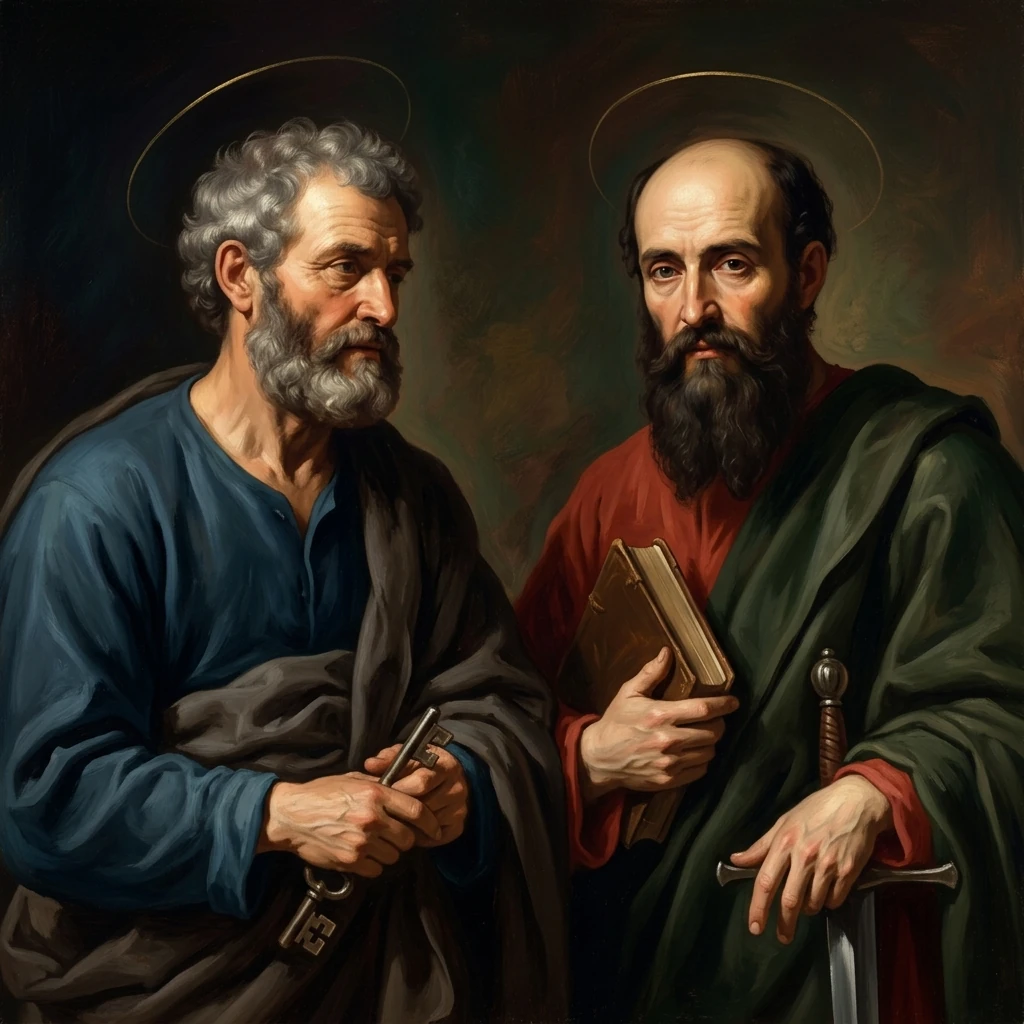
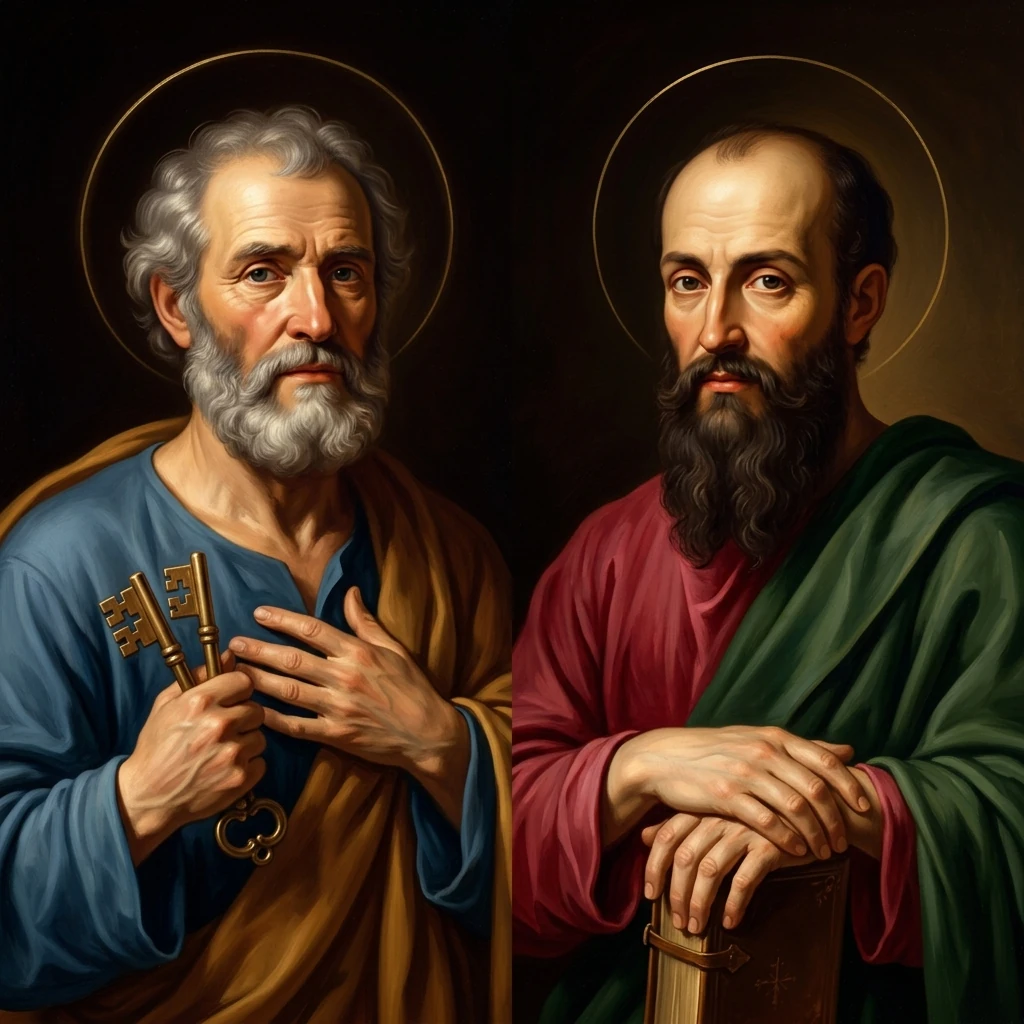
fix(santo-do-dia): aperfeicoa imagens de 09/11, 29/06 e 08/09 com nova composicao (v1.0.5+37)

diff --git a/tools/fix_three_saints.py b/tools/fix_three_saints.py
@@ -1,0 +1,125 @@
+#!/usr/bin/env python3
+"""
+tools/fix_three_saints.py
+Regenera cirurgicamente com prompts aprimorados:
+- 11/09: Dedicação da Basílica de Latrão (sem a maquete de brinquedo; Papa São Silvestre abençoando com a fachada ao fundo)
+- 06/29: Santos Pedro e Paulo (mãos perfeitas e naturais, sem sobreposição confusa de espadas e chaves)
+- 09/08: Natividade de Nossa Senhora (Santa Ana com mãos perfeitas e delicadas, sem 6 dedos e sem auréola estranha)
+"""
+
+import os
+import sys
+
+PROJECT_DIR = os.path.abspath(os.path.join(os.path.dirname(__file__), ".."))
+if PROJECT_DIR not in sys.path:
+    sys.path.insert(0, PROJECT_DIR)
+
+import time
+import base64
+from tools.saint_image_daemon import (
+    create_client,
+    crop_letterbox_and_convert,
+    validate_image_visual,
+    update_db_image_url,
+    IMAGES_DIR,
+    log,
+)
+
+PROMPTS = {
+    (9, 11): (
+        "Direct digital illustration in pure classic baroque sacred oil painting style, filling 100% of the square image seamlessly edge-to-edge. "
+        "CRITICAL: Absolutely borderless, full-bleed, NO physical canvas edge, NO miniature dollhouse model in hands, NO photo of painting, NO picture frame, NO easel, NO wall. "
+        "Close-up upper-body portrait for the Feast of the Dedication of the Archbasilica of Saint John Lateran (Dedicação da Basílica de Latrão). "
+        "Pope Saint Sylvester I (Papa São Silvestre) in majestic ancient papal liturgical vestments, wearing a richly embroidered golden cope with jewels and an ancient white pallium with dark crosses. "
+        "Venerable, holy elderly countenance with white beard. "
+        "His right hand is gracefully raised in solemn episcopal blessing with exactly five natural, well-separated, perfectly proportioned fingers. "
+        "His left hand holds a golden papal cross staff with five natural fingers. "
+        "In the deep atmospheric chiaroscuro background behind him, the monumental classical facade and statues of the Archbasilica of Saint John Lateran are softly illuminated by warm celestial divine golden light and drifting incense. "
+        "Delicate translucent golden halo glowing softly above his head. Masterwork in the style of Diego Velazquez and Francisco de Zurbaran."
+    ),
+    (29, 6): (
+        "Direct digital illustration in pure classic baroque sacred oil painting style, filling 100% of the square image seamlessly edge-to-edge. "
+        "CRITICAL: Absolutely borderless, full-bleed, NO physical canvas edge, NO photo of painting, NO picture frame, NO easel, NO wall. "
+        "Close-up bust portrait of the two Princes of the Apostles, Saint Peter and Saint Paul (Santos Pedro e Paulo), side by side in sacred communion and brotherly devotion. "
+        "On the left, Saint Peter with grey hair and beard, wearing blue tunic and golden-brown mantle; his left hand gently holds a pair of antique golden keys against his chest with five clear natural fingers, while his right hand rests calmly over his heart with five distinct natural fingers. "
+        "On the right, Saint Paul with noble high forehead, dark beard, wearing crimson tunic and deep green mantle; his hands rest serenely holding a closed leather-bound Bible with five clearly defined, natural fingers on each hand (NO loose floating fingers, NO awkward sword grip). "
+        "Both faces filled with apostolic courage, serenity, and deep faith. "
+        "Delicate translucent golden halos glowing softly above each head. "
+        "Dramatic chiaroscuro warm golden light against a deep velvety dark background, masterwork in the style of Caravaggio and Francisco de Zurbaran."
+    ),
+    (8, 9): (
+        "Direct digital illustration in pure classic baroque sacred oil painting style, filling 100% of the square image seamlessly edge-to-edge. "
+        "CRITICAL: Absolutely borderless, full-bleed, NO physical canvas edge, NO neon rings, NO photo of painting, NO picture frame, NO easel, NO wall. "
+        "Close-up upper-body portrait for the Nativity of the Blessed Virgin Mary (Natividade de Nossa Senhora). "
+        "Saint Anne (Santa Ana), devout and loving elderly holy mother with a soft dark veil and deep burgundy mantle, gazing with boundless maternal love and joy at her newborn baby daughter Mary. "
+        "The newborn infant Virgin Mary is swaddled in pure soft white linen, sleeping peacefully in her arms. "
+        "Saint Anne's hands have exactly five natural, gentle, well-rendered fingers on each hand, cradling the baby naturally and tenderly (strictly 5 fingers, NO extra thumbs or fingers). "
+        "A soft, ethereal, delicate golden halo glows naturally and gently around baby Mary's head. "
+        "Warm celestial golden chiaroscuro light illuminating mother and child against a deep dark background, masterpiece in the style of Bartolome Esteban Murillo and Francisco de Zurbaran."
+    ),
+}
+
+NAMES = {
+    (9, 11): ("Dedicação da Basílica de Latrão", "Festa"),
+    (29, 6): ("Santos Pedro e Paulo", "Apóstolos"),
+    (8, 9): ("Natividade de Nossa Senhora", "Festa"),
+}
+
+def main():
+    client = create_client()
+    for (dia, mes), prompt in PROMPTS.items():
+        nome, sub = NAMES[(dia, mes)]
+        log(f"\n========================================================")
+        log(f"REGENERANDO COM NOVO PROMPT: {dia:02d}/{mes:02d} - {nome}")
+        log(f"========================================================")
+        
+        final_path = os.path.join(IMAGES_DIR, f"santo_{mes:02d}_{dia:02d}.webp")
+        tmp_path = os.path.join(IMAGES_DIR, f"_tmp_fix_{mes:02d}_{dia:02d}.png")
+        
+        for attempt in range(1, 4):
+            log(f"[{dia:02d}/{mes:02d}] Tentativa {attempt}/3...")
+            try:
+                resp = client.models.generate_content(
+                    model="gemini-3.1-flash-image",
+                    contents=[prompt],
+                )
+                raw = None
+                for part in resp.parts:
+                    if part.inline_data is not None:
+                        raw = part.inline_data.data
+                        break
+                
+                if not raw:
+                    log("Nenhum dado de imagem retornado.")
+                    time.sleep(5)
+                    continue
+                
+                data = raw if isinstance(raw, bytes) else base64.b64decode(raw)
+                with open(tmp_path, "wb") as f:
+                    f.write(data)
+                
+                ok = crop_letterbox_and_convert(tmp_path, final_path)
+                if os.path.exists(tmp_path):
+                    os.remove(tmp_path)
+                
+                if not ok:
+                    log("Falha no pós-processamento.")
+                    time.sleep(5)
+                    continue
+                
+                vis_ok, motivo, nota = validate_image_visual(client, final_path, nome, sub)
+                if vis_ok:
+                    log(f"✓ APROVADO: {dia:02d}/{mes:02d} {nome} (Nota: {nota:.1f}/10) - {motivo}")
+                    update_db_image_url(dia, mes)
+                    break
+                else:
+                    log(f"✗ REPROVADO (tentativa {attempt}): Nota {nota:.1f} - {motivo}")
+                    time.sleep(8)
+            except Exception as e:
+                log(f"Erro: {e}")
+                time.sleep(8)
+        
+        time.sleep(4)
+
+if __name__ == "__main__":
+    main()
